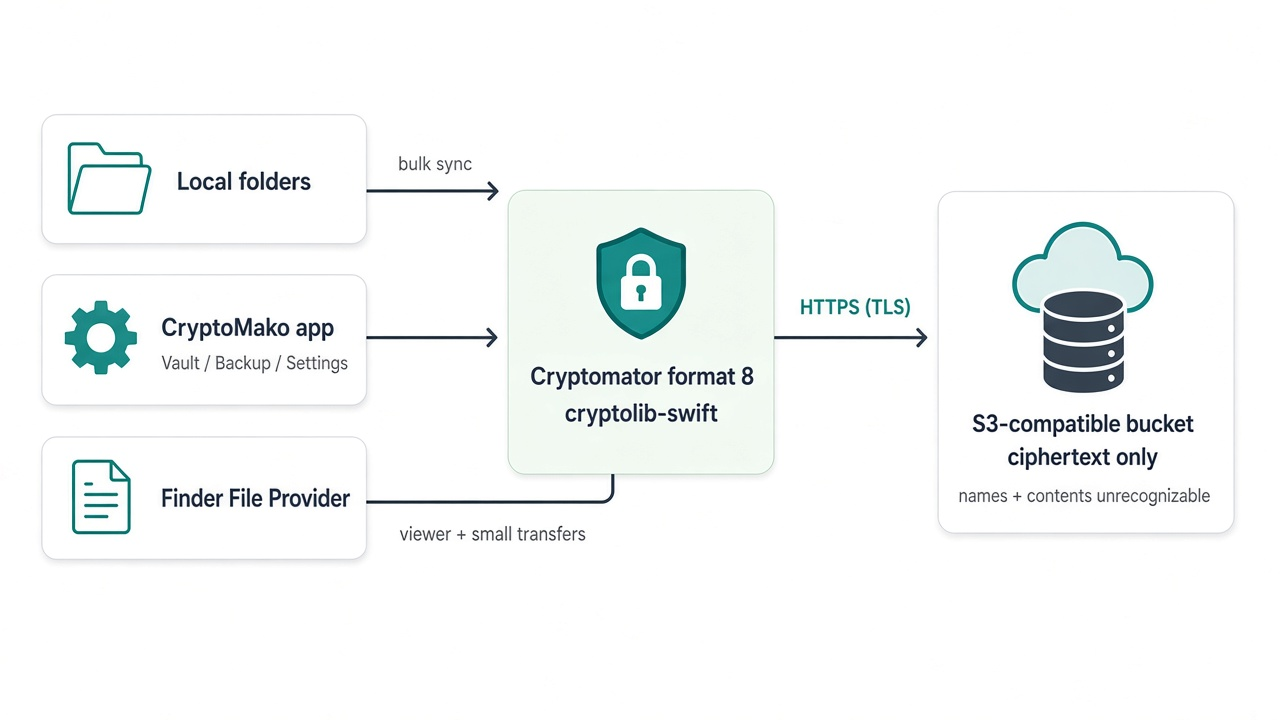
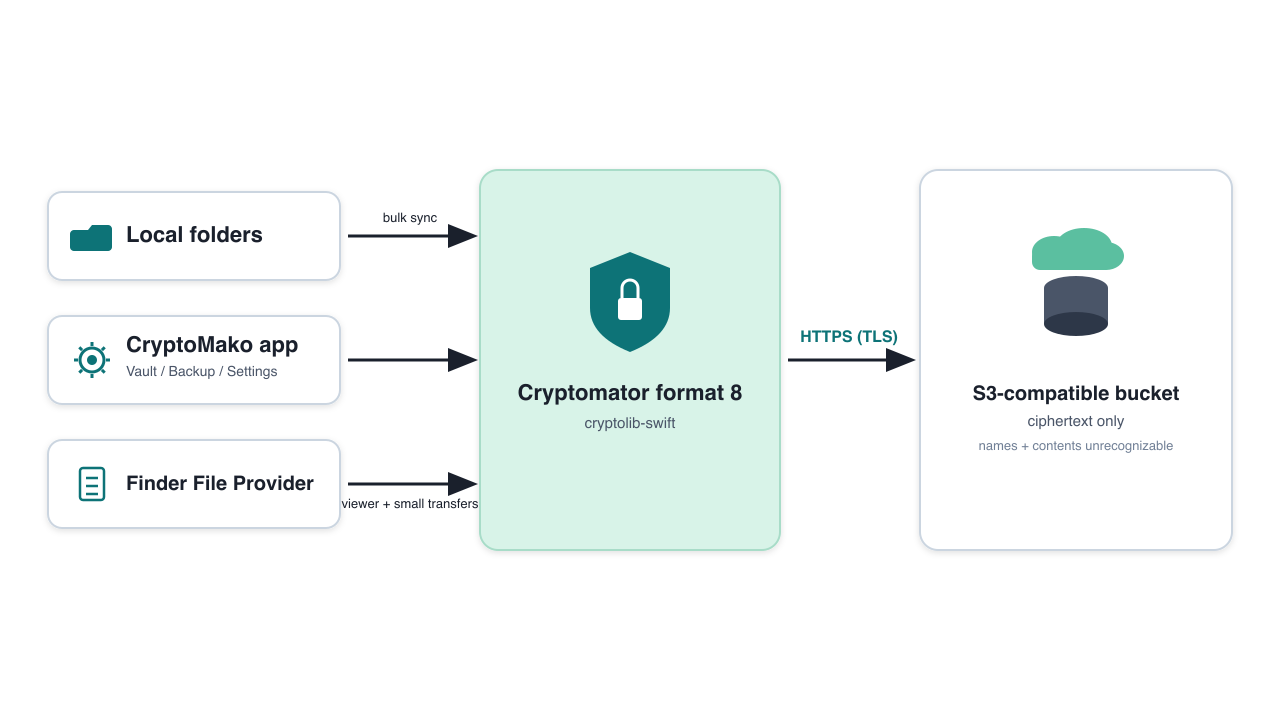
docs: multi-platform README + redraw architecture diagram
Lead with format-8 vault on any S3-compatible bucket across macOS,
Windows, and Linux (this repo) plus iOS/Android siblings. Equal-height
middle/right boxes; three horizontal arrows into the cryptolib box.

diff --git a/README.md b/README.md
@@ -1,83 +1,118 @@
 # CryptoMako
 
 [![License: AGPL v3](https://img.shields.io/badge/License-AGPL%20v3-blue.svg)](LICENSE)
-[![Platform](https://img.shields.io/badge/platform-macOS%2014%2B-black.svg)](https://github.com/guillebot/cryptomako)
-[![Swift](https://img.shields.io/badge/Swift-5.10%2B-orange.svg)](https://swift.org)
+[![Platforms](https://img.shields.io/badge/desktop-macOS%20%7C%20Windows%20%7C%20Linux-black.svg)](https://github.com/guillebot/cryptomako)
+[![Mobile](https://img.shields.io/badge/mobile-iOS%20%7C%20Android-lightgrey.svg)](https://github.com/guillebot/cryptomako-ios)
 [![S3](https://img.shields.io/badge/storage-S3%20%2F%20MinIO-569A31.svg)](https://github.com/guillebot/cryptomako)
 [![Cryptomator](https://img.shields.io/badge/vault-Cryptomator%20format%208-6B4EFF.svg)](https://cryptomator.org)
 [![GitHub release](https://img.shields.io/github/v/release/guillebot/cryptomako?include_prereleases)](https://github.com/guillebot/cryptomako/releases)
 
+**CryptoMako puts a [Cryptomator](https://cryptomator.org) format‑8 vault on any S3‑compatible bucket** — then unlocks it so you work with plaintext locally while the object store only ever sees opaque ciphertext (names and contents).
 
-**Point CryptoMako at any S3-compatible bucket, unlock a [Cryptomator](https://cryptomator.org) vault, and work with your files as plaintext** — in the app, in Finder, and through high-throughput Backup Sync for large trees.
+One vault format, one security model, across:
 
-CryptoMako is a macOS companion, not a Cryptomator fork. Ciphertext stays on the object store; decryption happens in-process. Licensed under **AGPLv3** (including paid distribution).
+| Family | Where | Surfaces |
+|--------|-------|----------|
+| **Desktop (this repo)** | **macOS** (repo root), **Windows** (`windows/`), **Linux** (`linux/`) | App / CLI + viewer mount + **Backup Sync** for bulk |
+| **iOS** | [guillebot/cryptomako-ios](https://github.com/guillebot/cryptomako-ios) | Sibling app |
+| **Android** | [guillebot/cryptomako-android](https://github.com/guillebot/cryptomako-android) | Sibling app |
+
+Not a Cryptomator fork — ciphertext stays on the bucket; decryption is in‑process. Licensed **AGPLv3** (including paid distribution).
+
+## Release ([v1.0.0](https://github.com/guillebot/cryptomako/releases/tag/v1.0.0))
+
+| Platform | Status |
+|----------|--------|
+| **Linux** | `.deb` attached (`cryptomako_1.0.0_amd64.deb`) — CLI + FUSE + Backup Sync |
+| **macOS** | Notarized zip/dmg pending Apple Notary (attach to the same tag when ready) |
+| **Windows** | In‑repo under `windows/` (.NET 8 CLI, Avalonia desktop, CfAPI); **no installer** in this release |
+
+```bash
+# Linux
+sudo dpkg -i cryptomako_1.0.0_amd64.deb
+```
 
 ## What it does
 
 | Capability | What you get |
 |------------|----------------|
 | **S3 vault** | Connect over **HTTPS** to AWS S3, MinIO, or any SigV4 S3 API. Vault objects live under a bucket prefix you choose; the bucket never sees cleartext names or contents. |
-| **Cryptomator format 8** | Password unlock with `cryptolib-swift`. Vaults stay interoperable with stock Cryptomator (Directory Health Check clean). |
-| **App listing** | SwiftUI host: unlock, status lamps (S3 / vault / Finder), browse cleartext names, small transfers. |
-| **Finder File Provider** | Mount the vault under Finder → Locations for browsing and light create/delete. Fail-closed: remote S3 put/delete must succeed. |
-| **Backup Sync** | Pick big local folders and sync them into the vault over a saturated uplink (parallel encrypt → S3 put), with optional bandwidth cap, proxy, and excludes (`node_modules`, `.git`, …). |
+| **Cryptomator format 8** | Password unlock (macOS: `cryptolib-swift`; Linux/Windows: native format‑8 stacks). Vaults stay interoperable with stock Cryptomator. |
+| **Viewer mount** | Browse + light create/delete: **Finder File Provider** (macOS), **CfAPI / Cloud Files** (Windows), **FUSE** (Linux). Fail‑closed remote writes. |
+| **Backup Sync** | Bulk backup of large trees: walk → encrypt → put (parallel uplink), with optional bandwidth cap, proxy, and excludes (`node_modules`, `.git`, …). |
 
-**Durable store = remote ciphertext only.** Local CloudStorage materialization is never treated as “backed up.”
+**Durable store = remote ciphertext only.** Local CloudStorage / hydrate / FUSE materialization is never treated as “backed up.”
+
+## Desktop layout (this repository)
+
+```text
+cryptomako/
+├── Sources/ … Support/ …     # macOS (Swift) — app, File Provider, CLI
+├── linux/                    # Linux (Go) — CLI, FUSE, Backup Sync, .deb packaging
+├── windows/                  # Windows (.NET 8) — CLI, Avalonia desktop, CfAPI (when merged)
+└── fixtures/                 # Shared golden format‑8 vault
+```
+
+| OS | Tree | Viewer mount | Bulk path |
+|----|------|--------------|-----------|
+| macOS | repo root | Finder File Provider (+ optional macFUSE sync volume) | Backup Sync |
+| Windows | `windows/` | Explorer CfAPI / Cloud Files | Backup Sync |
+| Linux | [`linux/`](linux/) | FUSE (`mount`, default ro / optional `--rw`) | Backup Sync (`sync` / `sources`) |
+
+See [`linux/README.md`](linux/README.md) for the Linux tree. The Windows tree (`windows/`) ships CLI + Avalonia desktop + CfAPI on the Windows development branches; it is not required to use the Linux `.deb` or macOS app.
 
 ## Architecture
 
-![CryptoMako architecture: local folders, app, and Finder go through Cryptomator format 8 to an S3-compatible ciphertext bucket](docs/assets/architecture.png)
+![CryptoMako architecture: local folders, app, and viewer mount go through Cryptomator format 8 to an S3-compatible ciphertext bucket over HTTPS](docs/assets/architecture.png)
 
 ```mermaid
 flowchart LR
-  subgraph Mac["Your Mac"]
-    UI["CryptoMako app<br/>Vault · Backup · Settings"]
-    FP["Finder<br/>File Provider"]
+  subgraph Local["Your machine"]
+    UI["CryptoMako app / CLI<br/>Vault · Backup · Settings"]
+    Mount["Viewer mount<br/>Finder FP · CfAPI · FUSE"]
     Sync["Backup Sync<br/>walk → encrypt → put"]
   end
 
-  subgraph Vault["In-process Cryptomator"]
-    Lib["cryptolib-swift<br/>format 8"]
+  subgraph Vault["In-process Cryptomator format 8"]
+    Lib["cryptolib / format 8"]
   end
 
   S3[("S3-compatible bucket<br/>HTTPS · ciphertext only")]
 
   UI --> Lib
-  FP --> Lib
+  Mount --> Lib
   Sync --> Lib
   Lib -->|"SigV4 over HTTPS (TLS)"| S3
 
-  Local[("Local folders<br/>photos, repos, …")] --> Sync
-```
-
-```text
-  Local disk                              Object store (HTTPS / TLS)
- ───────────                              ─────────────────────────
-  ~/Photos ──┐
-  ~/dev ─────┼──► Backup Sync ──► encrypt ──► s3://bucket/prefix/d/…/*.c9r
-             │                      ▲              ↑
-  Finder ◄───┴── File Provider ─────┘              names + contents
-                      │                            unrecognizable
-                 CryptoMako app
+  Folders[("Local folders<br/>photos, repos, …")] --> Sync
 ```
 
 ### Roles (important split)
 
 | Surface | Role |
 |---------|------|
-| **Backup tab → Sync** | Bulk backup of large trees. Prefer this for multi‑GB / many-file jobs. |
-| **Finder File Provider** | Viewer + small ad-hoc transfers. Do **not** point rclone or bulk tools at `~/Library/CloudStorage/CryptoMako-*`. |
-| **Optional cleartext macFUSE** | `/Volumes/CryptoMakoSync` for tool-friendly sync; still encrypts before remote put. |
+| **Backup Sync** | Bulk backup of large trees. Prefer this for multi‑GB / many-file jobs. |
+| **Viewer mount** (Finder FP / CfAPI / FUSE) | Browse + small ad‑hoc transfers. Do **not** point rclone or bulk tools at the CloudStorage / hydrate path. |
+| **Optional cleartext FUSE** (macOS macFUSE / Linux `mount`) | Tool‑friendly sync volume; still encrypts before remote put. |
 
 ## Security model (short)
 
-- **Transport:** all S3 traffic is **HTTPS (TLS)**. Plain HTTP is not the supported path (App Transport Security in the sandboxed app and extension).
+- **Transport:** all S3 traffic is **HTTPS (TLS)**. Plain HTTP is rejected on supported paths.
 - **At rest in the bucket:** data is **100% unrecognizable**. Neither file **contents** nor cleartext **names** appear in the object store — only Cryptomator ciphertext and encrypted directory layout (`d/…/*.c9r`, etc.).
-- Masterkey material is encrypted; unlocking stays on your Mac.
-- Secrets live in the Keychain (app) or env vars (CLI) — never in `settings.json` / `poc.json`.
-- Writes fail closed unless the remote object put/delete succeeds.
+- Masterkey material is encrypted; unlocking stays on your device.
+- Secrets live in the Keychain / Credential Manager / env vars — **never** in `settings.json` / `poc.json` / `config.json`.
+- Writes **fail closed** unless the remote object put/delete succeeds.
 
-## Requirements
+## Sibling apps (mobile)
+
+- **iOS:** [github.com/guillebot/cryptomako-ios](https://github.com/guillebot/cryptomako-ios)
+- **Android:** [github.com/guillebot/cryptomako-android](https://github.com/guillebot/cryptomako-android)
+
+Same format‑8 vault on the same bucket — unlock on phone or desktop interchangeably.
+
+## macOS (this tree)
+
+### Requirements
 
 - macOS 14+
 - Swift 5.10+ / Xcode 16+
@@ -85,9 +120,9 @@ flowchart LR
 - Apple Developer Program membership for File Provider + App Groups
 - Docker optional (local MinIO via `./scripts/minio-up.sh`)
 
-No AWS SDK: S3 is SigV4-signed in-process over an ephemeral `URLSession` (no `URLCache`). Dependencies: `cryptolib-swift`, `base32`, `swift-argument-parser`.
+No AWS SDK: S3 is SigV4‑signed in‑process over an ephemeral `URLSession` (no `URLCache`). Dependencies: `cryptolib-swift`, `base32`, `swift-argument-parser`.
 
-## Build
+### Build
 
 ```bash
 cd ~/dev/cryptomako
@@ -109,7 +144,7 @@ xcodebuild -project CryptoMako.xcodeproj -scheme CryptoMako \
 open ~/Library/Developer/Xcode/DerivedData/CryptoMako-*/Build/Products/Debug/CryptoMako.app
 ```
 
-## App tabs
+### App tabs
 
 1. **Vault** — Local or S3 connection, unlock, listing, Mount in Finder.
 2. **Backup** — Folder picker, Sync progress, live bandwidth.
@@ -117,9 +152,9 @@ open ~/Library/Developer/Xcode/DerivedData/CryptoMako-*/Build/Products/Debug/Cry
 
 S3 settings need endpoint, region, bucket, **vault prefix** (folder containing `vault.cryptomator`), and access key. Prefix example: `cryptomako-poc/`. Empty prefix = bucket root.
 
-## CLI quick path
+### CLI quick path
 
-Config: `~/.config/cryptomako/poc.json` (and app-group `settings.json`). No secrets in JSON:
+Config: `~/.config/cryptomako/poc.json` (and app‑group `settings.json`). No secrets in JSON:
 
 ```json
 {
@@ -141,7 +176,7 @@ swift run cryptomako ls --prefix cryptomako-poc/ --path / -R
 swift run cryptomako cat --prefix cryptomako-poc/ /hello.txt
 ```
 
-## File Provider mount
+### File Provider mount
 
 After Unlock + **Mount in Finder**:
 
@@ -150,6 +185,23 @@ After Unlock + **Mount in Finder**:
 ```
 
 See [docs/30-m2-file-provider.md](docs/30-m2-file-provider.md) and [docs/60-backup-fuse-rclone.md](docs/60-backup-fuse-rclone.md).
+
+## Linux (`linux/`)
+
+Go CLI + FUSE cleartext mount + Backup Sync. Shared `fixtures/` golden vault.
+
+```bash
+cd linux
+go test ./...
+go build -o cryptomako .
+# or: ./packaging/build-deb.sh  →  sudo dpkg -i packaging/dist/cryptomako_*.deb
+```
+
+Details: [`linux/README.md`](linux/README.md).
+
+## Windows (`windows/`)
+
+.NET 8 CLI, Avalonia desktop (Vault / Backup / Settings + tray), and Explorer **CfAPI** viewer mount, plus Backup Sync. HTTPS‑only S3; secrets via env / Credential Manager — never JSON. Build from that tree with the .NET 8 SDK (`dotnet build` / `dotnet test`). No Windows installer ships in [v1.0.0](https://github.com/guillebot/cryptomako/releases/tag/v1.0.0).
 
 ## Documentation
 
@@ -163,13 +215,14 @@ See [docs/30-m2-file-provider.md](docs/30-m2-file-provider.md) and [docs/60-back
 | [docs/50-security.md](docs/50-security.md) | Secrets, logging, threat model |
 | [docs/60-backup-fuse-rclone.md](docs/60-backup-fuse-rclone.md) | Backup Sync vs Finder |
 | [docs/architecture/overview.md](docs/architecture/overview.md) | Modules, unlock, listing |
+| [linux/README.md](linux/README.md) | Linux CLI / FUSE / `.deb` |
 | [BREAK_GLASS.md](BREAK_GLASS.md) | Emergency wipe |
 
 ## License
 
-[GNU Affero General Public License v3.0](LICENSE). You may charge for copies or access; recipients retain AGPL rights to corresponding source and to run modified versions. CryptoMako links [`cryptolib-swift`](https://github.com/cryptomator/cryptolib-swift), also AGPLv3 — compatible while CryptoMako stays AGPL.
+[GNU Affero General Public License v3.0](LICENSE). You may charge for copies or access; recipients retain AGPL rights to corresponding source and to run modified versions. CryptoMako links [`cryptolib-swift`](https://github.com/cryptomator/cryptolib-swift) on macOS (also AGPLv3) — compatible while CryptoMako stays AGPL.
 
-## Identifiers
+## Identifiers (macOS)
 
 | Item | Value |
 |------|--------|
